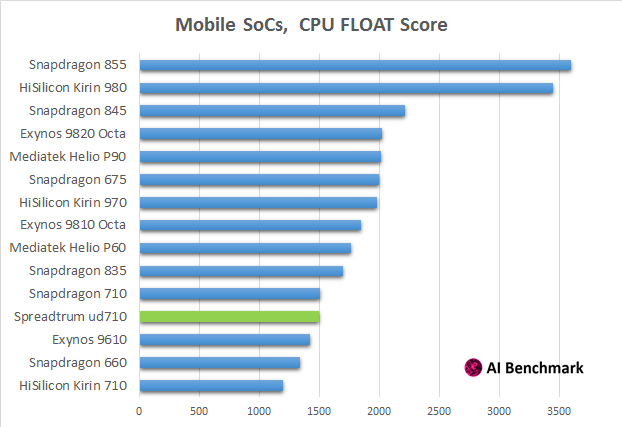
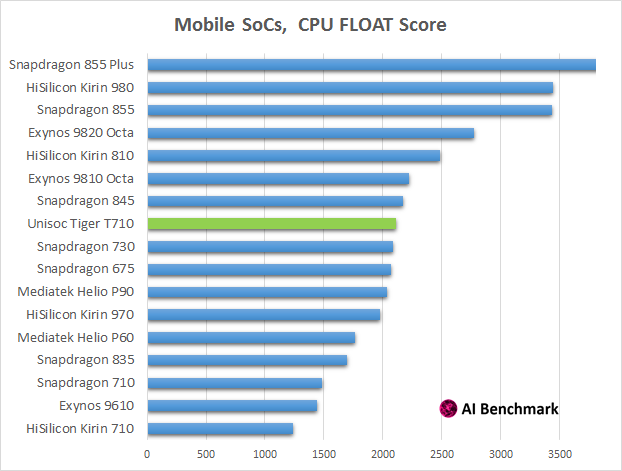
Unisoc Tiger T710 Review

diff --git a/news_2019_04_18_spreadtrum_ud710.html b/news_2019_04_18_spreadtrum_ud710.html
@@ -55,41 +55,53 @@
 
 <div id="news">
 
-<h1 class="title1"> <span style="color: #ea1d6f;">Spreadtrum Reborn:</span> &nbsp;<span class="title3">Unannounced SoC With Impressive AI Performance</span></h1>
+<h1 class="title1"> <span style="color: #ea1d6f;">Spreadtrum Reborn:</span> &nbsp;<span class="title3">Performance Review of the Unisoc Tiger T710 </span></h1>
 
-<h1 class="paragraph">For many years, Spreadtrum was holding a tiny share of the mobile SoC market and was primarily known for its budget processors for extremely low-end Android devices. It looks like with <a target="_blank" href="https://www.mysmartprice.com/gear/2018/06/23/spreadtrum-renamed-unisoc-sc9832e-sc9863-processors-ar-vr-machine-learning-smartphones/">its recent rebranding</a> you should forget everything that you knew about Spreadtrum - while being an early prototype, its new chipset is already beating the giants of the SoC industry.
+<h1 class="paragraph">For many years, Unisoc was holding a small share of the mobile SoC market and was primarily known for its budget processors for low-end Android devices. It looks like with <a target="_blank" href="https://www.mysmartprice.com/gear/2018/06/23/spreadtrum-renamed-unisoc-sc9832e-sc9863-processors-ar-vr-machine-learning-smartphones/">its recent rebranding</a> you should forget everything that you knew about it &ndash; while being a pre-release engineering sample, its new mid-range chipset is easily beating the giants of the SoC industry.
 </br>
 </br>
-Below are the detailed performance results of this prototype. Please note that this is an early engineering sample (known as <span class="test_ids">Spreadtrum ud710_3h10_native</span>), thus it might appear on the market under a different name.</h1>
+Below we present a detailed performance analysis of the Unisoc Tiger T710. Please note that this is a pre-release sample (also known as <span class="test_ids">ud710_3h10_native</span>), thus the results of the final commercial version might be slightly different.</h1>
 
-<a href="assets/img_18_april/float_score.png"><img style="width: 100%;	margin-top: 0.2vw; margin-bottom: 0vw;" src="assets/img_18_april/float_score.png"></a>
+<a href="ranking_processors.html"><img style="width: 100%;	margin-top: 0.2vw; margin-bottom: 0vw;" src="assets/img_18_april/ai_benchmark_results.png"></a>
 
-<h1 class="paragraph_title"> AI Performance: &nbsp;Float AI Models </h1>
+<h1 class="paragraph_title"> AI Performance: &nbsp;Float & Quantized AI Models </h1>
 
-<h1 class="paragraph">This is probably the strongest and the most impressive part of the new Spreadtrum's SoC - for the most common float AI models, it demonstrates the performance beating all mid-range chipsets, Kirin 970 and even Snapdragon 855. Yes, that's not a mistake - UD710 is here faster than the Qualcomm's flagship chipset, outperforming it in 5 out of 6 tasks:</h1>
+<h1 class="paragraph">Unisoc T710 has a dedicated NPU providing acceleration for both float and quantized AI models. This is probably the most impressive part of the new Tiger - for the most common float AI models, it is just slightly slower than Kirin 810 (featuring Huawei's next-gen DaVinci NPU), but outperforms all the rest SoCs by a huge margin: <span style="color: #ea1d6f;">almost 50% performance boost</span> compared to Snapdragon 855 Plus, Kirin 980, Helio P90 and Exynos 9825 Octa.</h1>
 
-<a href="assets/img_18_april/float_inference.png"><img style="width: 100%;	margin-top: 0.2vw; margin-bottom: 0vw;" src="assets/img_18_april/float_inference.png"></a>
+<a href="assets/img_18_april/float_score.png"><img style="width: 49.7%;	margin-top: 0.2vw; margin-bottom: 0vw;" src="assets/img_18_april/float_score.png"></a>
 
-<h1 class="paragraph">On the chart above, one can see the average inference time for six common AI models used in image classification, face recognition, image enhancement and super-resolution tasks. Spreadtrum UD710 is generally demonstrating a 15-50% advantage over SDM855,</span> having some trouble only with a relatively simple SRCNN 9-5-5 model used for photo deblurring and super-resolution. Overall, its float performance is very <span style="color: #ea1d6f;">close to the results of Kirin 980,</span> though the accuracy of the computations is somewhat lower that results in the smaller total score.</h1>
+<a href="assets/img_18_april/quantized_score.png"><img style="width: 49.7%;	margin-top: 0.2vw; margin-bottom: 0vw;" src="assets/img_18_april/quantized_score.png"></a>
+
+<h1 class="paragraph">As for quantized AI models - Unisoc doesn't disappoint here too, easily outperforming all chipsets from Qualcomm, HiSilicon, MediaTek and Samsung. Yes, that's not a mistake - T710 is even faster than the Qualcomm's flagship presented this month, outmatching it in all performance categories:</h1>
+
+<a href="assets/img_18_april/float_inference.png"><img style="width: 49.7%;	margin-top: 0.2vw; margin-bottom: 0vw;" src="assets/img_18_april/float_inference.png"></a>
+
+<a href="assets/img_18_april/quantized_inference.png"><img style="width: 49.7%;	margin-top: 0.2vw; margin-bottom: 0vw;" src="assets/img_18_april/quantized_inference.png"></a>
+
+<a href="assets/img_18_april/error_float.png"><img style="width: 49.7%;	margin-top: 0.2vw; margin-bottom: 0vw;" src="assets/img_18_april/error_float.png"></a>
+
+<a href="assets/img_18_april/error_quant.png"><img style="width: 49.7%;	margin-top: 0.2vw; margin-bottom: 0vw;" src="assets/img_18_april/error_quant.png"></a>
+
+<h1 class="paragraph">On the charts above, one can see the average inference time and prediction error for several common AI models used in image classification, face recognition, image enhancement and super-resolution tasks. Tiger T710 is generally demonstrating a 30-70% advantage over Snapdragon 855 Plus in case of float inference, and comparable runtime for quantized models. But when it comes to inference accuracy, Qualcomm's chipset is completely falling behind the Unisoc, showing up to 12 times larger prediction errors in the corresponding tasks. While one can "boost" the performance by adding some specific software optimizations leading to faster computation speed at the cost of significantly degraded precision, Unisoc did not use this trick in its chipset – Tiger T710 is <span style="color: #ea1d6f;">demonstrating very decent accuracy results</span> in nearly all tests, fairly taking the first place.</h1>
 
 <h1 class="paragraph_title"> CPU Performance </h1>
+
+<h1 class="paragraph">Unisoc's CPU configuration is quite typical for the upper mid-range SoC segment: four big Cortex-A75 cores clocked at 2.0GHz and four small Cortex-A55 cores clocked at 1.8GHz. The tests show that its integer performance lies between the results of Snapdragon 835 and 845 and is around 30% better than the performance of Snapdragon 730, Kirin 810 and Helio P90 playing in the same segment.</h1>
 
 <a href="assets/img_18_april/cpu_score_int.png"><img style="width: 49.7%;	margin-top: 0.2vw; margin-bottom: 0vw;" src="assets/img_18_april/cpu_score_int.png"></a>
 
 <a href="assets/img_18_april/cpu_score_float.png"><img style="width: 49.7%;	margin-top: 0.2vw; margin-bottom: 0vw;" src="assets/img_18_april/cpu_score_float.png"></a>
 
-<h1 class="paragraph">Spreadtrum's plain CPU performance is also quite decent. For integer computations, its scores are lying between the results of the last year flagships - Exynos 9810 and Snapdragon 845, substantially outperforming all current mid-range SoCs from Qualcomm, MediaTek and Huawei. The speed of float computations is not that awesome, though it is still at the level of Snapdragon 710, Exynos 9610 and Kirin 710. All in all, CPU results are looking very convincing, and are clearly far away from everything we've seen from Spreadtrum in the past.</h1>
+<h1 class="paragraph">As for T710's float CPU performance, it is basically the same as in Qualcomm's and MediaTek's mid-range chipsets, and is around 20% lower compared to Kirin 810. So, on the whole, Unisoc T710 is performing at the level of the latest Kirin SoC and is slightly faster than both SDM730 and Helio P90, which should be enough to stay relevant for the next year or two.</h1>
 
 <h1 class="paragraph_title"> Other Performance Aspects </h1>
 
-<h1 class="paragraph">Unfortunately, the tested prototype was lacking drivers for quantized AI models, so this part of UD710's performance remains still unclear, though even without this acceleration it is already approaching Snapdragon 845 in <a style="color: #ea1d6f;" href="https://play.google.com/store/apps/details?id=org.benchmark.demo">AI Benchmark:</a></h1>
+<h1 class="paragraph">Same as Helio P90, Unisoc T710 is using <a target="_blank" href="https://www.imgtec.com/powervr-gpu/gm9446/">PowerVR GM 9446 GPU</a> from Imagination Technologies that should be slightly faster than Adreno 616 present in the Snapdragon 710. This means that T710 shouldn't have any major problems on the GPU side as well, though it is not an ultimate gaming solution &ndash; just well enough for its segment. </h1>
 
-<a href="ranking_processors.html"><img style="width: 100%;	margin-top: 0.2vw; margin-bottom: 0vw;" src="assets/img_18_april/ai_benchmark_results.png"></a>
-
-<h1 class="paragraph">The biggest question that is left is the performance of its graphical system. If Spreadtrum won't fail here too, we will clearly see a very competitive solution that might further bridge the gap between premium- and mid-tier SoCs. The release date of UD710 is not yet specified, so everything will now depend on Spreadtrum's promptness: if this chipset is finalized in time, mobile SoC market might finally get the fifth strong player.</h1>
+<h1 class="paragraph">In total, Tiger T710 is a very decent chip with the best overall AI performance one can get right now. Just recently, it was impossible to imaging some Unisoc chipset being at the top of the performance ranking, outrunning all competitive solutions. A miracle? Yes, quite close to that. Good GPU, excellent CPU and a really outstanding NPU &ndash; Tiger T710 is becoming one of the most interesting proposals in the mid-range SoC segment.</h1>
 
 <h1 class="meta">
-	<p>18 April 2019 <span style="float: right;"><a href="mailto:andrey@vision.ee.ethz.ch" style="text-decoration: none; color: rgb(51, 51, 51);">Andrey Ignatov</a> | <a href="http://ai-benchmark.com" style="text-decoration: none;"><lh>AI Benchmark</lh><a></span></p>
+	<p>31 July 2019 <span style="float: right;"><a href="mailto:andrey@vision.ee.ethz.ch" style="text-decoration: none; color: rgb(51, 51, 51);">Andrey Ignatov</a> | <a href="http://ai-benchmark.com" style="text-decoration: none;"><lh>AI Benchmark</lh><a></span></p>
 
 <div id="news_link_bottom">
 	<a href="news_2019_02_05_february_updates.html" style="text-decoration: none;"><p>

diff --git a/ranking_processors.html b/ranking_processors.html
@@ -41,8 +41,8 @@
 	</ul>
 	
 	<div id="news_link">
-		<a href="alpha.html"><p>
-			AI&nbsp; Benchmark&nbsp; for&nbsp; Windows,&nbsp; Linux&nbsp; and&nbsp; macOS:&nbsp; &nbsp;Let &nbsp;the &nbsp;AI &nbsp;Games &nbsp;Begin... &nbsp; <img src="assets/img/goto_white.png">
+		<a href="news_2019_04_18_spreadtrum_ud710.html"><p>
+			Spreadtrum&nbsp; Reborn:&nbsp; &nbsp;Performance &nbsp;Review &nbsp;of &nbsp;the &nbsp;Unisoc &nbsp;Tiger &nbsp;T710 &nbsp; <img src="assets/img/goto_white.png">
 		</p></a>
 	</div>
 
@@ -58,11 +58,10 @@
 	</ul>
 	
 	<div id="news_link">
-		<a href="alpha.html"><p>
-			AI&nbsp; Benchmark&nbsp; for&nbsp; Windows,&nbsp; Linux&nbsp; and&nbsp; macOS:&nbsp; &nbsp;Let &nbsp;the &nbsp;AI &nbsp;Games &nbsp;Begin... &nbsp; <img src="assets/img/goto_white.png">
+		<a href="news_2019_04_18_spreadtrum_ud710.html"><p>
+			Spreadtrum&nbsp; Reborn:&nbsp; &nbsp;Performance &nbsp;Review &nbsp;of &nbsp;the &nbsp;Unisoc &nbsp;Tiger &nbsp;T710 &nbsp; <img src="assets/img/goto_white.png">
 		</p></a>
 	</div>
-
 	
 </div>
 
@@ -104,7 +103,7 @@
   		
 <tr><td></td></tr>
 
-<tr><td class="column_0"><a id=0092 href="http://ai-benchmark.com/news_2019_04_18_spreadtrum_ud710.html" target="_blank" style="text-decoration: none;">Unisoc Tiger T710</a></td><td class="column_1">4x2 GHz Cortex-A75 & 4x1.8 GHz Coretex-A55</a></td><td class="column_1">NPU / n.a.</td><td class="column_3">2019</td><td class="column_5_proto">1400</td><td class="column_5_proto">2113</td><td class="column_5_proto">8255</td><td class="column_5_proto">96</td><td class="column_5_proto">15603</td><td class="column_5_proto">79</td><td class="column_5_proto">394</td><td class="column_5_proto">314</td><td class="column_5_proto">85</td><td class="column_6 red"><a href="#footnote" style="text-decoration: none; opacity: 0.8; color: #de1e6a;"> 28097 <sup2>1,5</sup2></a></td></tr>
+<tr><td class="column_0"><a id=0092 href="http://ai-benchmark.com/news_2019_04_18_spreadtrum_ud710.html" target="_blank" style="text-decoration: none;">Unisoc Tiger T710</a></td><td class="column_1">4x2 GHz Cortex-A75 & 4x1.8 GHz Cortex-A55</a></td><td class="column_1">NPU / n.a.</td><td class="column_3">2019</td><td class="column_5_proto">1400</td><td class="column_5_proto">2113</td><td class="column_5_proto">8255</td><td class="column_5_proto">96</td><td class="column_5_proto">15603</td><td class="column_5_proto">79</td><td class="column_5_proto">394</td><td class="column_5_proto">314</td><td class="column_5_proto">85</td><td class="column_6 red"><a href="#footnote" style="text-decoration: none; opacity: 0.8; color: #de1e6a;"> 28097 <sup2>1,5</sup2></a></td></tr>
 <tr><td class="column_0"><a id=0079 href="https://www.notebookcheck.net/Qualcomm-unveils-the-Snapdragon-855-Plus-slated-to-power-upcoming-gaming-smartphones-and-the-Galaxy-Note-10.427655.0.html" target="_blank" style="text-decoration: none;">Snapdragon 855 Plus</a></td><td class="column_1">1x2.96 +  3x2.42 + 4x1.8 GHz Kryo 485</a></td><td class="column_1">DSP (Hex. 690) + GPU (Adreno 640)</td><td class="column_3">2019</td><td class="column_5_proto">2213</td><td class="column_5_proto">4132</td><td class="column_5_proto">6375</td><td class="column_5_proto">40</td><td class="column_5_proto">8960</td><td class="column_5_proto">30</td><td class="column_5_proto">1357</td><td class="column_5_proto">1078</td><td class="column_5_proto">34</td><td class="column_6 red"><a href="#footnote" style="text-decoration: none; opacity: 0.8; color: #de1e6a;"> 24553 <sup2>1,4</sup2></a></td></tr>
 <tr><td class="column_0"><a id=0021 href="https://www.gsmarena.com/huawei_nova_5_will_feature_new_7nm_kirin_810_chip-news-37646.php" target="_blank" style="text-decoration: none;">HiSilicon Kirin 810</a></td><td class="column_1">2x2.27 GHz Cortex-A76 & 6x1.88 GHz A55</a></td><td class="column_1">NPU / n.a.</td><td class="column_3">2019</td><td class="column_5">1085</td><td class="column_5">2488</td><td class="column_5">1695</td><td class="column_5">80</td><td class="column_5 green">17635</td><td class="column_5">95</td><td class="column_5">463</td><td class="column_5">348</td><td class="column_5">90</td><td class="column_6 green"><a href="#footnote" style="text-decoration: none; opacity: 0.8"> 23944 <sup2>1</sup2></a></td></tr>
 <tr><td class="column_0"><a id=0078 href="https://www.notebookcheck.net/Qualcomm-Snapdragon-855-SoC-Benchmarks-and-Specs.375436.0.html" target="_blank" style="text-decoration: none;">Snapdragon 855</a></td><td class="column_1">1x2.84 +  3x2.41 + 4x1.78 GHz Kryo 485</a></td><td class="column_1">DSP (Hex. 690) + GPU (Adreno 640)</td><td class="column_3">2018</td><td class="column_5 green">2106</td><td class="column_5">3431</td><td class="column_5">5535</td><td class="column_5">55</td><td class="column_5">7342</td><td class="column_5">37</td><td class="column_5 green">1156</td><td class="column_5 green">714</td><td class="column_5">43</td><td class="column_6 green"><a href="#footnote" style="text-decoration: none; opacity: 0.8"> 20554 <sup2>1</sup2></a></td></tr>

diff --git a/news.html b/news.html
@@ -69,14 +69,14 @@
 </div>
 
 <hr>
-<h1 class="title1"> <span style="color: #ea1d6f;">Spreadtrum Reborn:</span> &nbsp;<span class="title3">Unannounced SoC With Impressive AI Performance</span></h1>
+<h1 class="title1"> <span style="color: #ea1d6f;">Spreadtrum Reborn:</span> &nbsp;<span class="title3">Performance Review of the Unisoc Tiger T710</span></h1>
 
-<h1 class="paragraph">For many years, Spreadtrum was holding a tiny share of the mobile SoC market and was primarily known for its budget processors for extremely low-end Android devices. It looks like with <a target="_blank" href="https://www.mysmartprice.com/gear/2018/06/23/spreadtrum-renamed-unisoc-sc9832e-sc9863-processors-ar-vr-machine-learning-smartphones/">its recent rebranding</a> you should forget everything that you knew about Spreadtrum - while being an early prototype, its new chipset is already beating the giants of the SoC industry.
+<h1 class="paragraph">For many years, Unisoc was holding a small share of the mobile SoC market and was primarily known for its budget processors for low-end Android devices. It looks like with <a target="_blank" href="https://www.mysmartprice.com/gear/2018/06/23/spreadtrum-renamed-unisoc-sc9832e-sc9863-processors-ar-vr-machine-learning-smartphones/">its recent rebranding</a> you should forget everything that you knew about it &ndash; while being a pre-release engineering sample, its new mid-range chipset is easily beating the giants of the SoC industry.
 </br>
 </br>
-Below are the detailed performance results of this prototype. Please note that this is an early engineering sample (known as <span class="test_ids">Spreadtrum ud710_3h10_native</span>), thus it might appear on the market under a different name.</h1>
+Below we present a detailed performance analysis of the Unisoc Tiger T710. Please note that this is a pre-release sample (also known as <span class="test_ids">ud710_3h10_native</span>), thus the results of the final commercial version might be slightly different.</h1>
 
-<a href="assets/img_18_april/float_score.png"><img style="width: 100%;	margin-top: 0.2vw; margin-bottom: 0vw;" src="assets/img_18_april/float_score.png"></a>
+<a href="ranking_processors.html"><img style="width: 100%;	margin-top: 0.2vw; margin-bottom: 0vw;" src="assets/img_18_april/ai_benchmark_results.png"></a>
 
 <div id="read_full_article">
 	<a href="news_2019_04_18_spreadtrum_ud710.html" style="text-decoration: none;"><p>

diff --git a/ranking.html b/ranking.html
@@ -39,12 +39,20 @@
 		<a href="https://arxiv.org/pdf/1810.01109.pdf" > <li style="color: #e94f70; font-size: 0.94vw;"> Research <img src="assets/img/goto.png"> </li></a>
 		<a href="about.html" style="font-size: 1.0vw;"> <li> ABOUT </li></a>
 	</ul>
+
+	<div id="news_link">
+		<a href="news_2019_04_18_spreadtrum_ud710.html"><p>
+			Spreadtrum&nbsp; Reborn:&nbsp; &nbsp;Performance &nbsp;Review &nbsp;of &nbsp;the &nbsp;Unisoc &nbsp;Tiger &nbsp;T710 &nbsp; <img src="assets/img/goto_white.png">
+		</p></a>
+	</div>
 	
+	<!--
 	<div id="news_link">
 		<a href="alpha.html"><p>
 			AI&nbsp; Benchmark&nbsp; for&nbsp; Windows,&nbsp; Linux&nbsp; and&nbsp; macOS:&nbsp; &nbsp;Let &nbsp;the &nbsp;AI &nbsp;Games &nbsp;Begin... &nbsp; <img src="assets/img/goto_white.png">
 		</p></a>
 	</div>
+	-->
 	
 </nav>
 
@@ -56,13 +64,20 @@
 		<a href="tests.html"> <li> AI-TESTS </li></a>
 		<a href="https://arxiv.org/pdf/1810.01109.pdf" > <li style="color: #e94f70; font-size: 1.57vw; margin-left: 1.2vw;"> RESEARCH &nbsp; <img style="width: 1.2vw;" src="assets/img/goto.png"> </li></a>
 	</ul>
+
+	<div id="news_link">
+		<a href="news_2019_04_18_spreadtrum_ud710.html"><p>
+			Spreadtrum&nbsp; Reborn:&nbsp; &nbsp;Performance &nbsp;Review &nbsp;of &nbsp;the &nbsp;Unisoc &nbsp;Tiger &nbsp;T710 &nbsp; <img src="assets/img/goto_white.png">
+		</p></a>
+	</div>
 	
+	<!--
 	<div id="news_link">
 		<a href="alpha.html"><p>
 			AI&nbsp; Benchmark&nbsp; for&nbsp; Windows,&nbsp; Linux&nbsp; and&nbsp; macOS:&nbsp; &nbsp;Let &nbsp;the &nbsp;AI &nbsp;Games &nbsp;Begin... &nbsp; <img src="assets/img/goto_white.png">
 		</p></a>
 	</div>
-	
+	-->
 </div>
 
 <div id="ranking">

diff --git a/ranking_all.html b/ranking_all.html
@@ -39,12 +39,20 @@
 		<a href="https://arxiv.org/pdf/1810.01109.pdf" > <li style="color: #e94f70; font-size: 0.94vw;"> Research <img src="assets/img/goto.png"> </li></a>
 		<a href="about.html" style="font-size: 1.0vw;"> <li> ABOUT </li></a>
 	</ul>
+
+	<div id="news_link">
+		<a href="news_2019_04_18_spreadtrum_ud710.html"><p>
+			Spreadtrum&nbsp; Reborn:&nbsp; &nbsp;Performance &nbsp;Review &nbsp;of &nbsp;the &nbsp;Unisoc &nbsp;Tiger &nbsp;T710 &nbsp; <img src="assets/img/goto_white.png">
+		</p></a>
+	</div>
 	
+	<!--
 	<div id="news_link">
 		<a href="alpha.html"><p>
 			AI&nbsp; Benchmark&nbsp; for&nbsp; Windows,&nbsp; Linux&nbsp; and&nbsp; macOS:&nbsp; &nbsp;Let &nbsp;the &nbsp;AI &nbsp;Games &nbsp;Begin... &nbsp; <img src="assets/img/goto_white.png">
 		</p></a>
 	</div>
+	-->
 	
 </nav>
 
@@ -56,13 +64,20 @@
 		<a href="tests.html"> <li> AI-TESTS </li></a>
 		<a href="https://arxiv.org/pdf/1810.01109.pdf" > <li style="color: #e94f70; font-size: 1.57vw; margin-left: 1.2vw;"> RESEARCH &nbsp; <img style="width: 1.2vw;" src="assets/img/goto.png"> </li></a>
 	</ul>
+
+	<div id="news_link">
+		<a href="news_2019_04_18_spreadtrum_ud710.html"><p>
+			Spreadtrum&nbsp; Reborn:&nbsp; &nbsp;Performance &nbsp;Review &nbsp;of &nbsp;the &nbsp;Unisoc &nbsp;Tiger &nbsp;T710 &nbsp; <img src="assets/img/goto_white.png">
+		</p></a>
+	</div>
 	
+	<!--
 	<div id="news_link">
 		<a href="alpha.html"><p>
 			AI&nbsp; Benchmark&nbsp; for&nbsp; Windows,&nbsp; Linux&nbsp; and&nbsp; macOS:&nbsp; &nbsp;Let &nbsp;the &nbsp;AI &nbsp;Games &nbsp;Begin... &nbsp; <img src="assets/img/goto_white.png">
 		</p></a>
 	</div>
-	
+	-->
 </div>
 
 <div id="ranking">

diff --git a/ranking_detailed.html b/ranking_detailed.html
@@ -41,11 +41,11 @@
 	</ul>
 	
 	<div id="news_link">
-		<a href="alpha.html"><p>
-			AI&nbsp; Benchmark&nbsp; for&nbsp; Windows,&nbsp; Linux&nbsp; and&nbsp; macOS:&nbsp; &nbsp;Let &nbsp;the &nbsp;AI &nbsp;Games &nbsp;Begin... &nbsp; <img src="assets/img/goto_white.png">
+		<a href="news_2019_04_18_spreadtrum_ud710.html"><p>
+			Spreadtrum&nbsp; Reborn:&nbsp; &nbsp;Performance &nbsp;Review &nbsp;of &nbsp;the &nbsp;Unisoc &nbsp;Tiger &nbsp;T710 &nbsp; <img src="assets/img/goto_white.png">
 		</p></a>
 	</div>
-
+	
 </nav>
 
 <div id="nav_mobile">
@@ -58,8 +58,8 @@
 	</ul>
 	
 	<div id="news_link">
-		<a href="alpha.html"><p>
-			AI&nbsp; Benchmark&nbsp; for&nbsp; Windows,&nbsp; Linux&nbsp; and&nbsp; macOS:&nbsp; &nbsp;Let &nbsp;the &nbsp;AI &nbsp;Games &nbsp;Begin... &nbsp; <img src="assets/img/goto_white.png">
+		<a href="news_2019_04_18_spreadtrum_ud710.html"><p>
+			Spreadtrum&nbsp; Reborn:&nbsp; &nbsp;Performance &nbsp;Review &nbsp;of &nbsp;the &nbsp;Unisoc &nbsp;Tiger &nbsp;T710 &nbsp; <img src="assets/img/goto_white.png">
 		</p></a>
 	</div>
 	

diff --git a/ranking_processors_detailed.html b/ranking_processors_detailed.html
@@ -41,8 +41,8 @@
 	</ul>
 	
 	<div id="news_link">
-		<a href="alpha.html"><p>
-			AI&nbsp; Benchmark&nbsp; for&nbsp; Windows,&nbsp; Linux&nbsp; and&nbsp; macOS:&nbsp; &nbsp;Let &nbsp;the &nbsp;AI &nbsp;Games &nbsp;Begin... &nbsp; <img src="assets/img/goto_white.png">
+		<a href="news_2019_04_18_spreadtrum_ud710.html"><p>
+			Spreadtrum&nbsp; Reborn:&nbsp; &nbsp;Performance &nbsp;Review &nbsp;of &nbsp;the &nbsp;Unisoc &nbsp;Tiger &nbsp;T710 &nbsp; <img src="assets/img/goto_white.png">
 		</p></a>
 	</div>
 
@@ -58,8 +58,8 @@
 	</ul>
 	
 	<div id="news_link">
-		<a href="alpha.html"><p>
-			AI&nbsp; Benchmark&nbsp; for&nbsp; Windows,&nbsp; Linux&nbsp; and&nbsp; macOS:&nbsp; &nbsp;Let &nbsp;the &nbsp;AI &nbsp;Games &nbsp;Begin... &nbsp; <img src="assets/img/goto_white.png">
+		<a href="news_2019_04_18_spreadtrum_ud710.html"><p>
+			Spreadtrum&nbsp; Reborn:&nbsp; &nbsp;Performance &nbsp;Review &nbsp;of &nbsp;the &nbsp;Unisoc &nbsp;Tiger &nbsp;T710 &nbsp; <img src="assets/img/goto_white.png">
 		</p></a>
 	</div>
 	

diff --git a/assets/img_18_april/text.tex b/assets/img_18_april/text.tex
@@ -1,0 +1,1 @@
+In total, Tiger T710 is a very decent chip with the best overall AI performance one can get right now. Just recently, it was impossible to imaging some Unisoc chipset being at the top of the performance ranking and outrunning all competitive solutions. A miracle? Yes, quite close to that. And while its GPU performance is just standard for its segment, in all other aspects it demonstrates a really outstanding results, becoming one of the most interesting proposals in the mid-range SoC segment. 
